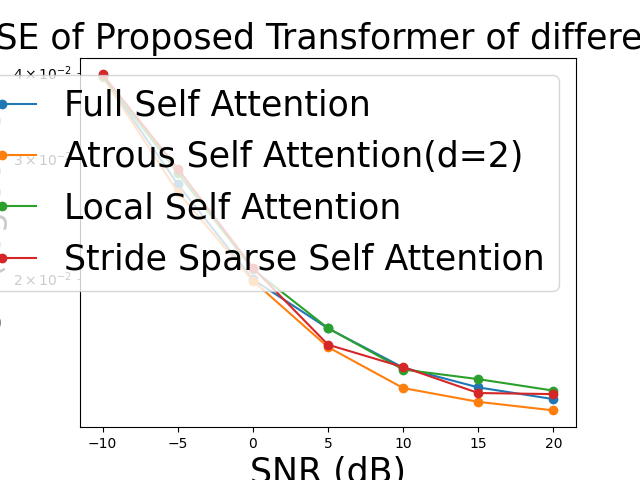
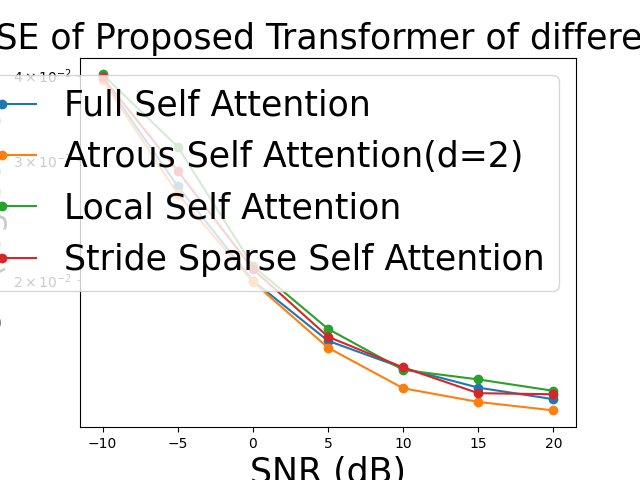
message

diff --git a/SPR-CNN/result-modality-transformer.py b/SPR-CNN/result-modality-transformer.py
@@ -17,7 +17,7 @@ y2 = [0.03987005725502968, 0.029254980385303497, 0.02159520797431469, 0.01805665
 # 自己寫的 multi-head self attention, full attention
 # encoder ff layer 用 Conv1D, decoder ff layer 用 ffn
 # modality-aware transformers
-y3 = [0.039645493030548096, 0.02747759222984314, 0.019949764013290405, 0.016916004940867424, 0.014825291931629181, 0.013869925402104855, 0.01333386730402708]
+y3 = [0.039645493030548096, 0.02747759222984314, 0.019949764013290405, 0.016258176416158676, 0.014825291931629181, 0.013869925402104855, 0.01333386730402708]
 
 # DAECNNATT
 y4 = [0.5412381862428629, 0.33254079647163465, 0.2115293457419186, 0.1564142778360277, 0.12438449687660279, 0.10890364229279535, 0.10238436697803815]
@@ -69,7 +69,7 @@ y2 = [15.490602115597438, 15.58706522935487, 15.656273772156585, 15.688134016492
 # 自己寫的 multi-head self attention, full attention
 # encoder ff layer 用 Conv1D, decoder ff layer 用 ffn
 # modality-aware transformers
-y3 = [15.49264954985823, 15.603153955212745, 15.671097689190924, 15.698389138207103, 15.717167092546497, 15.725739653022522, 15.730547503306035]
+y3 = [15.49264954985823, 15.603153955212745, 15.671097689190924, 15.70430017748037, 15.717167092546497, 15.725739653022522, 15.730547503306035]
 
 # DAECNNATT
 y4 = [12.97931951377382, 14.154661877931208, 14.794740768464427, 15.077112879082799, 15.238707802839244, 15.316166877397217, 15.348662296652947]
@@ -125,7 +125,7 @@ y1 = [0.03987005725502968, 0.029254980385303497, 0.02159520797431469, 0.01805665
 # 自己寫的 multi-head self attention, full attention
 # encoder ff layer 用 Conv1D, decoder ff layer 用 ffn
 # modality-aware transformers
-y2 = [0.039645493030548096, 0.02747759222984314, 0.019949764013290405, 0.016916004940867424, 0.014825291931629181, 0.013869925402104855, 0.01333386730402708]
+y2 = [0.039645493030548096, 0.02747759222984314, 0.019949764013290405, 0.016258176416158676, 0.014825291931629181, 0.013869925402104855, 0.01333386730402708]
 
 # Transformers(Encoder * 2 + Decoder * 2, (16 * 32 * 4)), epochs = 200, lr = 0.0001, batch_size = 32
 # 自己寫的 multi-head self attention, full attention
@@ -179,7 +179,7 @@ y1 = [15.490602115597438, 15.58706522935487, 15.656273772156585, 15.688134016492
 # 自己寫的 multi-head self attention, full attention
 # encoder ff layer 用 Conv1D, decoder ff layer 用 ffn
 # modality-aware transformers
-y2 = [15.49264954985823, 15.603153955212745, 15.671097689190924, 15.698389138207103, 15.717167092546497, 15.725739653022522, 15.730547503306035]
+y2 = [15.49264954985823, 15.603153955212745, 15.671097689190924, 15.70430017748037, 15.717167092546497, 15.725739653022522, 15.730547503306035]
 
 # Transformers(Encoder * 2 + Decoder * 2, (16 * 32 * 4)), epochs = 200, lr = 0.0001, batch_size = 32
 # 自己寫的 multi-head self attention, full attention
@@ -256,7 +256,7 @@ x = [-10, -5, 0, 5, 10, 15, 20]
 # 自己寫的 multi-head self attention, full attention
 # encoder ff layer 用 Conv1D, decoder ff layer 用 ffn
 # modality-aware transformers
-y1 = [0.039645493030548096, 0.02747759222984314, 0.019949764013290405, 0.016916004940867424, 0.014825291931629181, 0.013869925402104855, 0.01333386730402708]
+y1 = [0.039645493030548096, 0.02747759222984314, 0.019949764013290405, 0.016258176416158676, 0.014825291931629181, 0.013869925402104855, 0.01333386730402708]
 
 # Transformers(Encoder * 2 + Decoder * 2, (16 * 32 * 4)), epochs = 200, lr = 0.0001, batch_size = 32
 # 自己寫的 multi-head self attention, atrous_self_attention,
@@ -268,13 +268,13 @@ y2 = [0.03944879397749901, 0.026776893064379692, 0.01985848695039749, 0.01588436
 # 自己寫的 multi-head self attention, Local Self Attention
 # encoder ff layer 用 Conv1D, decoder ff layer 用 ffn
 # modality-aware transformers
-y3 = [0.03952145203948021, 0.028553225100040436, 0.02063240297138691, 0.01693073660135269, 0.014729450456798077, 0.014260709285736084, 0.013719967566430569]
+y3 = [0.04016707092523575, 0.03142015263438225, 0.020967191085219383, 0.01693073660135269, 0.014729450456798077, 0.014260709285736084, 0.013719967566430569]
 
 # Transformers(Encoder * 2 + Decoder * 2, (16 * 32 * 4)), epochs = 200, lr = 0.0001, batch_size = 32
 # 自己寫的 multi-head self attention, Stride Sparse Self Attention
 # encoder ff layer 用 Conv1D, decoder ff layer 用 ffn
 # modality-aware transformers
-y4 = [0.03975171595811844, 0.02894938737154007, 0.020740732550621033, 0.016013476997613907, 0.014851024374365807, 0.013610122725367546, 0.013560788705945015]
+y4 = [0.03975171595811844, 0.02894938737154007, 0.020740732550621033, 0.01648659072816372, 0.014851024374365807, 0.013610122725367546, 0.013560788705945015]
 
 # Transformers(Encoder * 2 + Decoder * 2, (16 * 32 * 4)), epochs = 200, lr = 0.0001, batch_size = 32
 # 自己寫的 multi-head self attention, atrous_self_attention, d = 3
@@ -316,7 +316,7 @@ x = [-10, -5, 0, 5, 10, 15, 20]
 # 自己寫的 multi-head self attention, full attention
 # encoder ff layer 用 Conv1D, decoder ff layer 用 ffn
 # modality-aware transformers
-y1 = [15.49264954985823, 15.603153955212745, 15.671097689190924, 15.698389138207103, 15.717167092546497, 15.725739653022522, 15.730547503306035]
+y1 = [15.49264954985823, 15.603153955212745, 15.671097689190924, 15.70430017748037, 15.717167092546497, 15.725739653022522, 15.730547503306035]
 
 # Transformers(Encoder * 2 + Decoder * 2, (16 * 32 * 4)), epochs = 200, lr = 0.0001, batch_size = 32
 # 自己寫的 multi-head self attention, atrous_self_attention,
@@ -328,13 +328,13 @@ y2 = [15.494442592010083, 15.609491910438882, 15.671919573771865, 15.70765791400
 # 自己寫的 multi-head self attention, Local Self Attention
 # encoder ff layer 用 Conv1D, decoder ff layer 用 ffn
 # modality-aware transformers
-y3 = [15.493780284204943, 15.593419636118835, 15.664949597637182, 15.698256769090925, 15.718027282607842, 15.722233706836965, 15.727084762060883]
+y3 = [15.487893916991833, 15.567441829124121, 15.661933478931305, 15.698256769090925, 15.718027282607842, 15.722233706836965, 15.727084762060883]
 
 # Transformers(Encoder * 2 + Decoder * 2, (16 * 32 * 4)), epochs = 200, lr = 0.0001, batch_size = 32
 # 自己寫的 multi-head self attention, Stride Sparse Self Attention
 # encoder ff layer 用 Conv1D, decoder ff layer 用 ffn
 # modality-aware transformers
-y4 = [15.491681067760004, 15.589832575098683, 15.663973687062441, 15.706498242577116, 15.716936093266758, 15.728069976733451, 15.728512427221728]
+y4 = [15.491681067760004, 15.589832575098683, 15.663973687062441, 15.702248021962497, 15.716936093266758, 15.728069976733451, 15.728512427221728]
 
 # Transformers(Encoder * 2 + Decoder * 2, (16 * 32 * 4)), epochs = 200, lr = 0.0001, batch_size = 32
 # 自己寫的 multi-head self attention, atrous_self_attention, d = 3

diff --git a/SPR-CNN/sparse_attention.py b/SPR-CNN/sparse_attention.py
@@ -97,8 +97,8 @@ class Multi_Head_Attention(tf.keras.layers.Layer):
             # mask = atrous_self_attention_mask(N = seq_len, dilation_rate = 2)
             # mask = random_self_attention_mask(N = seq_len, Probability = 0.5)
             # mask = local_self_attention_mask(N = seq_len, window_size = 2)
-            # mask = stride_sparse_self_attention_mask(N = seq_len, local_range = 2, stride = 2)
-            # scores = scores * mask - tf.constant(1e10, dtype=tf.float32) * (1 - mask)
+            mask = stride_sparse_self_attention_mask(N = seq_len, local_range = 2, stride = 2)
+            scores = scores * mask - tf.constant(1e10, dtype=tf.float32) * (1 - mask)
 
             # Apply softmax for attention weights
             attention_weights = tf.nn.softmax(scores, axis=-1)  # (B, L, L)
@@ -170,8 +170,8 @@ class Inter_Modal_Multi_Head_Attention(tf.keras.layers.Layer):
             # mask = atrous_self_attention_mask(N = seq_len, dilation_rate = 2)
             # mask = random_self_attention_mask(N = seq_len, Probability = 0.5)
             # mask = local_self_attention_mask(N = seq_len, window_size = 2)
-            # mask = stride_sparse_self_attention_mask(N = seq_len, local_range = 2, stride = 2)
-            # scores = scores * mask - tf.constant(1e10, dtype=tf.float32) * (1 - mask)
+            mask = stride_sparse_self_attention_mask(N = seq_len, local_range = 2, stride = 2)
+            scores = scores * mask - tf.constant(1e10, dtype=tf.float32) * (1 - mask)
 
             # Apply softmax for attention weights
             attention_weights = tf.nn.softmax(scores, axis=-1)  # (B, L, L)

diff --git a/SPR-CNN/loop.py b/SPR-CNN/loop.py
@@ -22,7 +22,7 @@ SNR_dB_range = range(-10, 21, 5)
 # 遍历 SNR_dB 参数的范围
 for SNR_dB in SNR_dB_range:
     # 构建完整的命令字符串
-    command = f"{base_command} 15"
+    command = f"{base_command} 5"
     
     # 执行命令
     result = subprocess.run(command, shell=True)
